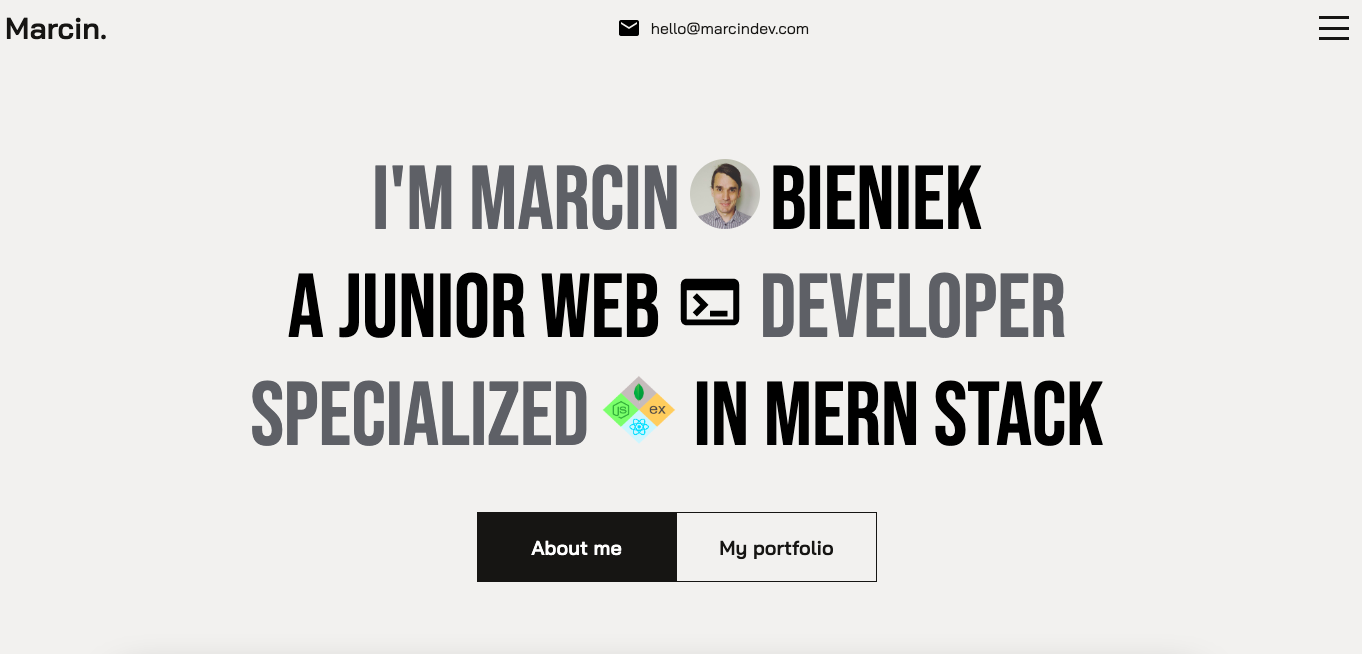
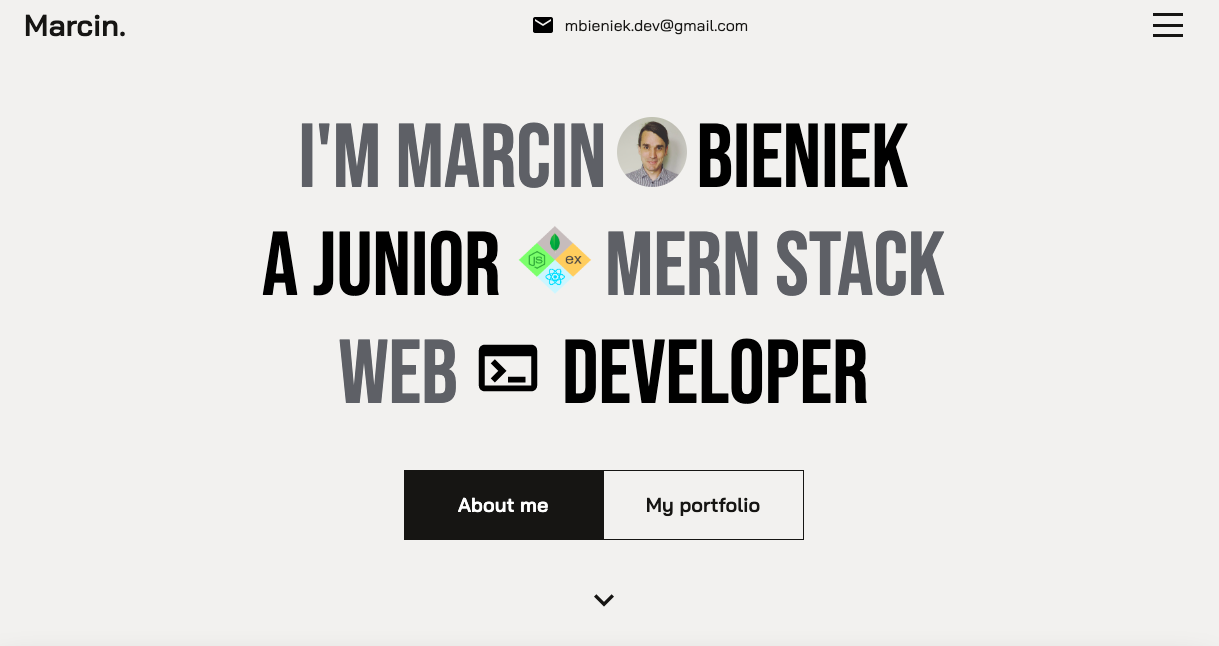
Add styling corrections and new item to portfolio

diff --git a/client/src/components/About/About.jsx b/client/src/components/About/About.jsx
@@ -21,7 +21,7 @@ const About = () => {
                 src={`${process.env.PUBLIC_URL}/images/star.svg`} 
                 alt="Main image"
               />
-              <p>In 2021, I've decided to create a personalized e-commerce service from scratch.</p>    
+              <p>In 2021, I've decided to create a personalized e-commerce service. </p>    
             </li>
             <li>
               <img
@@ -29,7 +29,7 @@ const About = () => {
                 src={`${process.env.PUBLIC_URL}/images/star.svg`} 
                 alt="Main image"
               />
-              <p>Before that I had an experience as PM on big IT projects (a new corporate service for the <a href="https://pzpn.pl/" target="_blank">Polish National Football Federation).</a></p>    
+              <p>Before that I had an experience as PM on big IT projects (like a new corporate service for the <a href="https://pzpn.pl/" target="_blank">Polish National Football Federation</a>). I worked also as a copywriter and SEO specialist.</p>    
             </li>
             <li>
               <img
@@ -37,7 +37,7 @@ const About = () => {
                 src={`${process.env.PUBLIC_URL}/images/star.svg`} 
                 alt="Main image"
               />
-              <p>In February 2023, I've completed an intense 10-month Full Stack Developer bootcamp. I went through the basics of JavaScript, React, NodeJS, Express, Mongo/SQL, and TypeScript. </p>    
+              <p>In January 2023, I've completed 10-month Full Stack Developer bootcamp on Kodilla. I went through the basics of JavaScript, React, NodeJS, Express, Mongo/SQL, and TypeScript. </p>    
             </li>
             <li>
               <img
@@ -45,7 +45,7 @@ const About = () => {
                 src={`${process.env.PUBLIC_URL}/images/star.svg`} 
                 alt="Main image"
               />
-              <p>I've completed three final projects. One of them was an e-commerce group project. We've learned how to work as a team, plan work in Jira, and make code reviews/merge changes in Git.</p>    
+              <p>I've completed three final projects. One of them was an e-commerce group project, lead by PM in Kanban methodology, with all aspects of commercial programing. </p>    
             </li>
             <li>
               <img
@@ -62,6 +62,14 @@ const About = () => {
                 alt="Main image"
               />
               <p>Today I'm focused on developing my skills. There is so much to learn and discover.</p>    
+            </li>
+            <li>
+              <img
+                className={styles.icon}
+                src={`${process.env.PUBLIC_URL}/images/star.svg`} 
+                alt="Main image"
+              />
+              <p>Currently im working on my first commercial project - lessons booking app for online school. Below you can find more details.</p>    
             </li>
           </ul>
           

diff --git a/client/src/data/simpleData.js b/client/src/data/simpleData.js
@@ -33,23 +33,32 @@ export const portfolio = [
   {
     id: 1,
     tag: ['all', 'react', 'nodejs', 'express', 'mongodb', 'bootstrap'],
-    title: 'E-commerce service',
-    details: 'User registration, login and profile. Product personalization, cart, order process. Orders history.',
+    title: 'E-commerce full-stack app',
+    details: 'User registration/login and profile. Product personalization, cart, order process. Orders history.',
     img: '/images/portfolio/prospero.png',
-    link: 'https://prosperostore.marcinbieniek.repl.co/',
+    link: 'https://prospero-store.herokuapp.com/',
     github: 'https://github.com/MarcinBieniek/ProsperoStore'
   },
   {
     id: 2,
+    tag: ['all', 'react', 'nodejs', 'express', 'mongodb', 'bootstrap'],
+    title: 'Real estates full-stack app',
+    details: 'Web integrated with interactive map. User canegister/login and perform CRUD operations on offers.',
+    img: '/images/portfolio/realestate.png',
+    link: 'https://realestate-mb.herokuapp.com/',
+    github: 'https://github.com/MarcinBieniek/Fullstack-NoticeBoard'
+  },
+  {
+    id: 3,
     tag: ['all', 'react'],
     title: 'Portfolio web',
-    details: 'Porfolio web with snap-scroll effect. Categories filter, contact form. Projects data mapped from db.',
+    details: 'Single page porfolio web with snap-scroll effect. Categories filter, contact form. ',
     img: '/images/portfolio/portfolio.png',
     link: '',
     github: 'https://github.com/MarcinBieniek/Portfolio'
   },
   {
-    id: 3,
+    id: 4,
     tag: ['all', 'javascript'],
     title: 'Simple streaming service',
     details: 'VanillaJS. Streaming service with audio player, songs list, search page and song draw page.',

diff --git a/client/src/components/Intro/Intro.jsx b/client/src/components/Intro/Intro.jsx
@@ -14,17 +14,18 @@ const Intro = () => {
         />
         <span>Bieniek</span><br/>
         
-        <span>A junior web</span> 
-        <TerminalIcon className={styles.icon}/>
-        <span className={styles.gray}>developer</span><br />
-
-        <span className={styles.gray}>specialized</span>
-        <img 
+        <span>A junior </span> 
+                <img 
           className={styles.logo}
           src={`${process.env.PUBLIC_URL}/images/mern.png`} 
           alt="Mern logo"
         />
-        <span> in Mern Stack</span><br />
+        
+        <span className={styles.gray}>MERN stack</span><br />
+
+        <span className={styles.gray}>web</span>
+        <TerminalIcon className={styles.icon}/>
+        <span> developer</span><br />
       </div>
       
       <div className={styles.buttons}>

diff --git a/client/src/components/Portfolio/Portfolio.jsx b/client/src/components/Portfolio/Portfolio.jsx
@@ -48,7 +48,7 @@ const Portfolio = () => {
               {item.link === '' ?
                 <p>You are here</p>
                 :
-                <p>View in browser</p>
+                <p>Live demo</p>
               }
             </a>
             <div className={styles.content}>
@@ -92,7 +92,7 @@ const Portfolio = () => {
                   {item.link === '' ?
                     <span>You are here</span>
                     :
-                    <span>View in browser</span>
+                    <span>Live demo</span>
                   }
                 </a>
                 <a href={item.github} className={styles.button} target="_blank">

diff --git a/client/src/components/Intro/Intro.module.scss b/client/src/components/Intro/Intro.module.scss
@@ -8,7 +8,6 @@
   justify-content: center;
   align-items: center;
   flex-direction: column;
-  position: relative;
 
   .text {
     width: 100%;
@@ -41,13 +40,13 @@
       margin: 0px;
       height: 70px;
       width: 80px;
-      margin: 0px 10px;
+      margin-left: 10px;
     }
 
     .logo {
       height: 70px;
       width: 80px;
-      margin-left: 10px;
+      margin-right: 10px;
     }
   }
 
@@ -95,9 +94,8 @@
   }
 
   .arrow {
-    position: absolute;
-    bottom: 0;
-    padding-bottom: 20px;
+    margin-top: 40px;
+
     a {
       text-decoration: none;
       color:$black;

diff --git a/client/src/components/Portfolio/Portfolio.module.scss b/client/src/components/Portfolio/Portfolio.module.scss
@@ -1,10 +1,10 @@
 @import '../../styles/styles.scss';
 
 .portfolio {
-  min-height: 100vh;
+  min-height: calc(100vh - 70px);
   width: 100%;
   background-color: $background-grey;
-  padding-bottom: 70px;
+  padding-bottom: 270px;
   display: flex;
   flex-direction: column;
   justify-content: center;
@@ -77,6 +77,7 @@
 
       .content {
         padding: 10px;
+        position: relative;
 
         .buttons {
           display: flex;

diff --git a/client/src/components/Topbar/Topbar.jsx b/client/src/components/Topbar/Topbar.jsx
@@ -11,7 +11,7 @@ const Topbar = ({menuOpen, setMenuOpen}) => {
         </div>
         <div className={styles.center}>
           <EmailIcon />
-          <a href="mailto:hello@marcindev.com">hello@marcindev.com</a>
+          <a href="mailto:mbieniek.dev@gmail.com">mbieniek.dev@gmail.com</a>
         </div>
         <div className={styles.right}>
           <div className={styles.hamburger} onClick={()=>setMenuOpen(!menuOpen)}>

diff --git a/client/src/components/About/About.module.scss b/client/src/components/About/About.module.scss
@@ -4,7 +4,7 @@
   min-height: calc(100vh - 70px);
   width: 100%;
   background-color: $background-grey;
-  padding-bottom: 70px;
+  padding-bottom: 170px;
   position: relative;
 
   .wrapper {
